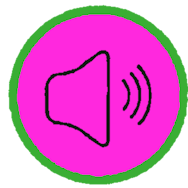
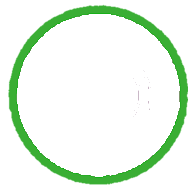
more ui changes

diff --git a/kandi.js b/kandi.js
@@ -3,6 +3,7 @@
 const webAppUrl = 'https://script.google.com/macros/s/AKfycbzKOdD7Y-A0GlKEiZTgARMhgAKDaJB08lBXQf2EMuc3Fyy9ZQwpXN8I066YitHrNyrq/exec';
 const webhookUrl = 'https://flowxo.com/hooks/a/gyxwke67';
 
+
 function submitScore(name, score) {
     // First, send the score to the Google Apps Script Web App
     fetch(webAppUrl, {
@@ -817,13 +818,12 @@ function animate() {
     updatePlayer();
     updateGround();
     updateEnemies();
-// Set font style for a Miami Vice 80s vibe
-ctx.font = 'bold 40px Verdana'; // Use a bold, clean font like Verdana
+ctx.font = 'bold 50px Comic Sans MS';
 ctx.fillStyle = '#FFFFFF'; // Set the font color to white
+ctx.textAlign = 'center'; // Align text horizontally to the center
+ctx.textBaseline = 'top'; // Align text vertically to the top
+ctx.fillText(score + 'm', canvas.width / 2, 20); // Middle-top positioning
 
-
-// Draw the score
-ctx.fillText('Distance: ' + score + 'm', canvas.width - 350, 60);
 
     // spawn a new Sprite
     if (ticker % Math.floor(platformWidth / player.speed) === 0) {
@@ -1052,22 +1052,26 @@ $(document).on('click', '.back-to-menu', function() {
 // Click handler for the "Sound" button
 $('.sound').click(function() {
     var $this = $(this);
+
     // sound off
     if ($this.hasClass('sound-on')) {
         $this.removeClass('sound-on').addClass('sound-off');
+        $this.html('<i class="fa-solid fa-volume-xmark fa-beat-fade"></i>'); // Update to sound-off icon
         playSound = false;
     }
     // sound on
     else {
         $this.removeClass('sound-off').addClass('sound-on');
+        $this.html('<i class="fa-solid fa-volume-high"></i>'); // Update to sound-on icon
         playSound = true;
     }
 
+    // Save state in localStorage
     if (canUseLocalStorage) {
         localStorage.setItem('kandi.playSound', playSound);
     }
 
-    // mute or unmute all sounds
+    // Mute or unmute all sounds
     for (var sound in assetLoader.sounds) {
         if (assetLoader.sounds.hasOwnProperty(sound)) {
             assetLoader.sounds[sound].muted = !playSound;

diff --git a/kandi.css b/kandi.css
@@ -150,32 +150,27 @@ a {
 #progress-bar {
   width: 200px;
 }
-/* Sound Icon */
 .sound {
-  display: block; /* Ensure the element is visible */
+  display: flex;
+  align-items: center;
+  justify-content: center;
   position: absolute;
   top: 10px;
   left: 10px;
-  width: 40px; /* Adjust this to make the icon wider */
-  height: 40px; /* Adjust this to make the icon taller */
+  width: 40px; /* Icon container width */
+  height: 40px; /* Icon container height */
   cursor: pointer;
   z-index: 3;
-  background-size: contain; /* Ensures the background image scales proportionally */
-  background-position: center;
-  background-repeat: no-repeat;
+  border: none;
+  background-color: transparent; /* Remove background color */
+  color: #FFFFFF; /* Icon color */
+  font-size: 24px; /* Icon size */
+  transition: transform 0.2s ease; /* Add hover effect */
 }
 
-
-.sound-on {
-  background-image: url('imgs/soundOn.png');
-  background-repeat: no-repeat;
+.sound:hover {
+  transform: scale(1.2); /* Slightly enlarge on hover */
 }
-
-.sound-off {
-  background-image: url('imgs/soundOff.png');
-  background-repeat: no-repeat;
-}
-
 /* Main Game Menu */
 #main {
 
@@ -355,19 +350,7 @@ a {
 
 }
 
-.artwork, .music, .developer {
-  text-shadow: -1px -1px 0 #000, 1px -1px 0 #000, -1px 1px 0 #000, 1px 1px 0 #000;
-}
 
-.artwork {
-  color: #fa8526;
-}
-.music {
-  color: #e6e71f;
-}
-.developer {
-  color: #13eb8a;
-}
 
 .back, .back:hover {
   margin-top: 10px;
@@ -382,7 +365,8 @@ a {
   width: 100%;
   height: 100%;
   position: absolute;
-  font-family: 'Bungee Shade', sans-serif;
+  font-family: 'Comic Sans MS', sans-serif;
+  font-size: 20px;
     color: white;
   font-weight: bold;
   text-shadow: -1px -1px 0 #000, 1px -1px 0 #000, -1px 1px 0 #000, 1px 1px 0 #000;

diff --git a/index.html b/index.html
@@ -13,7 +13,10 @@
 
 <body>
   <div class="wrapper">
-    <div class="sound sound-off"></div>
+<div class="sound sound-off">
+<i class="fa-solid fa-volume-xmark fa-beat-fade"></i>
+</div>
+
     <div id="menu">
       <div id="progress">
         <div id="percent">Downloading: <span id="p"></span></div>
@@ -39,6 +42,7 @@
 </div>
         </div>
       </div>
+	  
       <div id="credits">
         <div id="leaderboard"></div>
         <a href="javascript:void(0)" class="button back"><i class="fa-solid fa-house fa-xl"></i></a>
